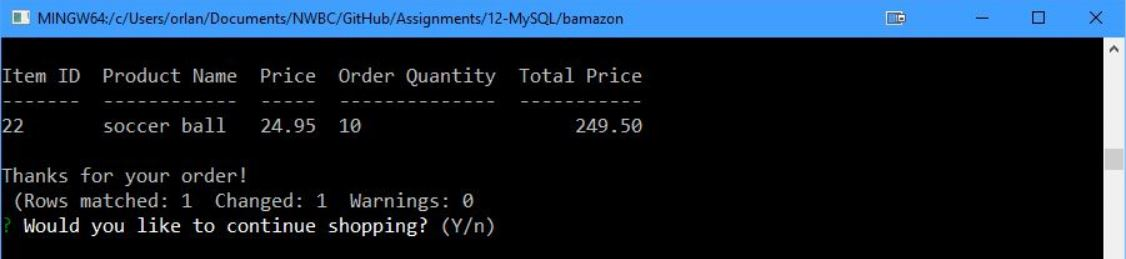
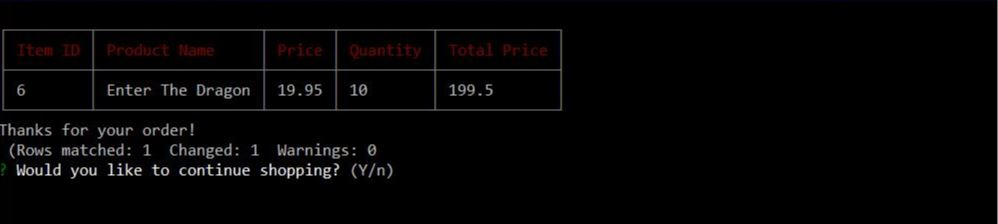
Changed the table module to something cleaner. Also redid the schema and seeds SQL code so anyone can create the tables and products.

Changed region(s): [[0.0, 0.0, 1.0, 1.0]]

diff --git a/bamazonManager.js b/bamazonManager.js
@@ -1,8 +1,8 @@
 var mysql = require("mysql");
 var inquirer = require("inquirer");
-var Table = require('easy-table');
 var figlet = require('figlet');
-const chalk = require('chalk');
+const colors = require('colors');
+var Table = require('cli-table');
 
 // MySQL Config
 const config = {
@@ -16,16 +16,9 @@ const config = {
 // ESTABLISH CONNECTION object
 var connection = mysql.createConnection(config);
 
-// ----- ALL ITEMS TABLE GENERATORS ----- \\
-const tableGenerator = (arg, callback) => {
-
-}
-
-// ----- CRUD FUNCTIONS ----- \\
-
 const viewInventory = () => {
     console.log('\033[2J'); // clears screen
-    console.log(chalk.yellow(figlet.textSync('All Inventory', { font: 'Small Slant' })));
+    console.log(figlet.textSync('All Inventory', { font: 'Small Slant' }).yellow);
     const queryStr = `
     SELECT 
     item_id, 
@@ -33,7 +26,7 @@ const viewInventory = () => {
     departments.department_name AS department,
     price,
     stock_quantity,
-    CAST(product_sales AS DECIMAL(6,2)) AS sales 
+    product_sales 
     FROM products
     INNER JOIN departments
     ON products.department_id = departments.department_id
@@ -42,15 +35,14 @@ const viewInventory = () => {
     connection.query(queryStr, function (err, response) {
         if (err) throw err;
         response; // assign to global variable
-        let prodTable = new Table;
+        let prodTable = new Table({
+            head: ["Item ID", "Product Name", "Department", "Price", "Stock Qty", "Product Sales"]
+        });
         response.forEach(element => {
-            prodTable.cell("Item ID", element.item_id);
-            prodTable.cell("Product Name", element.product_name);
-            prodTable.cell("Department", element.department);
-            prodTable.cell("Price", element.price, Table.number(2));
-            prodTable.cell("Stock Qty", element.stock_quantity);
-            prodTable.cell("Product Sales", element.sales, Table.number(2));
-            prodTable.newRow();
+            prodTable.push(
+                [element.item_id, element.product_name, element.department,
+                element.price.toFixed(2), element.stock_quantity, element.product_sales.toFixed(2)]
+            )
         });
         console.log(prodTable.toString());
         goHome();
@@ -59,7 +51,7 @@ const viewInventory = () => {
 
 const viewLowInventory = (callback) => {
     console.log('\033[2J'); // clears screen
-    console.log(chalk.yellow(figlet.textSync('Low Inventory', { font: 'Small Slant' })));
+    console.log(figlet.textSync('Low Inventory', { font: 'Small Slant' }).yellow);
     // show inventory where QTY <= 5
     const queryStr = `
     SELECT 
@@ -67,19 +59,19 @@ const viewLowInventory = (callback) => {
     product_name,
     price,
     stock_quantity,
-    CAST(product_sales AS DECIMAL(6,2)) AS sales 
+    product_sales 
     FROM products
     WHERE stock_quantity <= 5`;
     connection.query(queryStr, function (err, response) {
         if (err) throw err;
-        let prodTable = new Table;
+        let prodTable = new Table({
+            head: ["Item ID", "Product Name", "Price", "Stock Qty", "Product Sales"]
+        });
         response.forEach(element => {
-            prodTable.cell("Item ID", element.item_id);
-            prodTable.cell("Product Name", element.product_name);
-            prodTable.cell("Price", element.price, Table.number(2));
-            prodTable.cell("Stock Quantity", element.stock_quantity);
-            prodTable.cell("Product Sales", element.sales, Table.number(2));
-            prodTable.newRow();
+            prodTable.push(
+                [element.item_id, element.product_name, element.price.toFixed(2),
+                element.stock_quantity, element.product_sales.toFixed(2)]
+            )
         });
         console.log(prodTable.toString());
         goHome();
@@ -88,7 +80,7 @@ const viewLowInventory = (callback) => {
 
 const updateInventoryList = () => {
     console.log('\033[2J'); // clears screen
-    console.log(chalk.yellow(figlet.textSync('Update Inventory', { font: 'Small Slant' })));
+    console.log(figlet.textSync('Update Inventory', { font: 'Small Slant' }).yellow);
     // get all the products to insert as a list of choices
     const queryStr = "SELECT item_id, product_name FROM products";
     connection.query(queryStr, function (err, response) {
@@ -139,7 +131,8 @@ const updateSingleItem = (currentID, currentQTY) => {
 
 // ADD NEW ITEM
 const insertPrompt = () => {
-    console.log(chalk.yellow(figlet.textSync('Add New item', { font: 'Small Slant' })));
+    console.log('\033[2J'); // clears screen
+    console.log(figlet.textSync('Add New item', { font: 'Small Slant' }).yellow);
     // get list of existing deparments
     const queryStr = "SELECT department_id, department_name FROM departments";
     connection.query(queryStr, function (err, response) {
@@ -217,9 +210,9 @@ const insertItem = (department_id, product_name, price, stock_quantity) => {
 
 const mainMenu = () => {
     console.log('\033[2J'); // clears screen
-    console.log(chalk.yellow(figlet.textSync('Bamazon')));
-    console.log(chalk.yellow(figlet.textSync('Manager Page')));
-    console.log(chalk.yellow(figlet.textSync('Main Menu', {font: 'Small Slant'})));
+    console.log(figlet.textSync('Bamazon').yellow);
+    console.log(figlet.textSync('Manager Page').yellow);
+    console.log(figlet.textSync('Main Menu', { font: 'Small Slant' }).yellow);
 
     console.log("\n");
     const menu = {

diff --git a/bamazonCustomer.js b/bamazonCustomer.js
@@ -1,9 +1,9 @@
 var mysql = require("mysql");
 var inquirer = require("inquirer");
 var figlet = require('figlet');
-const chalk = require('chalk');
-
-var Table = require('easy-table');
+const colors = require('colors');
+var Table = require('cli-table');
+// var Table = require('easy-table');
 let products; // save database response to global variable
 let order; // save selected order to global variable
 const heading = [
@@ -28,16 +28,18 @@ const closeDB = () => {
 
 // show selected item with quantity and total price
 function orderItem(item, qty) {
-    let prodTable = new Table;
-    prodTable.cell("Item ID", item.item_id);
-    prodTable.cell("Product Name", item.product_name);
-    prodTable.cell("Price", item.price, Table.number(2));
-    prodTable.cell("Order Quantity", qty);
-    prodTable.cell("Total Price", item.price * qty, Table.number(2));
-    prodTable.newRow();
+    let prodTable = new Table({
+        head: ["Item ID", "Product Name", "Price", "Quantity", "Total Price"]
+    });
+    prodTable.push(
+        [item.item_id, item.product_name, item.price, qty, (item.price * qty).toFixed(2)]
+    );
+
     console.log('\033[2J'); // clears screen
     console.log(prodTable.toString()); // print the table
-    const queryStr = "UPDATE products SET stock_quantity = stock_quantity - ?, product_sales = product_sales + ( price * ? ) WHERE item_id = ?";
+    const queryStr = `UPDATE products SET stock_quantity = stock_quantity - ?, 
+        product_sales = product_sales + ( price * ? )
+        WHERE item_id = ?`;
     connection.query(queryStr, [qty, qty, item.item_id], function (err, response) {
         if (err) throw err;
         console.log("Thanks for your order!\n", response.message);
@@ -54,13 +56,13 @@ const getAll = () => {
         // get an array of ID's to be used to see if the item that the user ordered exists.
         const idArray = response.map(item => item.item_id);
         // generate table
-        let prodTable = new Table;
+        let prodTable = new Table({
+            head: ["Item ID", "Product Name", "Price", "Stock Qty"]
+        });
         response.forEach(product => {
-            prodTable.cell("Item ID", product.item_id);
-            prodTable.cell("Product Name", product.product_name);
-            prodTable.cell("Price", product.price, Table.number(2));
-            prodTable.cell("Stock Quantity", product.stock_quantity);
-            prodTable.newRow();
+            prodTable.push(
+                [product.item_id, product.product_name, product.price.toFixed(2), product.stock_quantity]
+            );
         });
         console.log(prodTable.toString());
 
@@ -116,16 +118,13 @@ const getAll = () => {
 const start = () => {
     console.log('\033[2J'); // clears screen
     console.log(
-        // chalk module
-        chalk.yellow(
             // figlet module
             figlet.textSync('The Bamazon Store', {
                 font: 'Small Slant',
                 kerning: 'fitted',
                 horizontalLayout: 'fitted',
                 verticalLayout: 'default'
-            })
-        )
+            }).yellow
     );
     getAll();
 }

diff --git a/README.md b/README.md
@@ -46,7 +46,7 @@ View Low Inventory section shows all items that have 5 or less stock quantity:
 ![Manager View Low Inventory](/assets/manager-low-inv.JPG)
 
 Update Inventory section first shows a list of current items taken from the database table. Then you can add more stock.
-![Manager Update Inventory](/assets/manager-update-stock.JPG)
+![Manager Update Inventory](/assets/manager-update-stock1.JPG)
 
 Add New Product section lets you first select from a list the current departments available. 
 ![Manager Add New Product 1](/assets/manager-insert-1.JPG)
@@ -80,7 +80,7 @@ The Supervisor main menu gives you two choices: View Product Sales by Department
 The View Product Sales by Department menu lets you choose a department from a paginated list. 
 ![Supervisor View Product Sales](/assets/supervisor-dept1.JPG)
 
-Results from the **video games** department: 
+Results from the **movies** department: 
 ![Supervisor View Product Sales 2](/assets/supervisor-dept2.JPG)
 
 Create a New Department asks you to enter a new department name and overhead costs.
